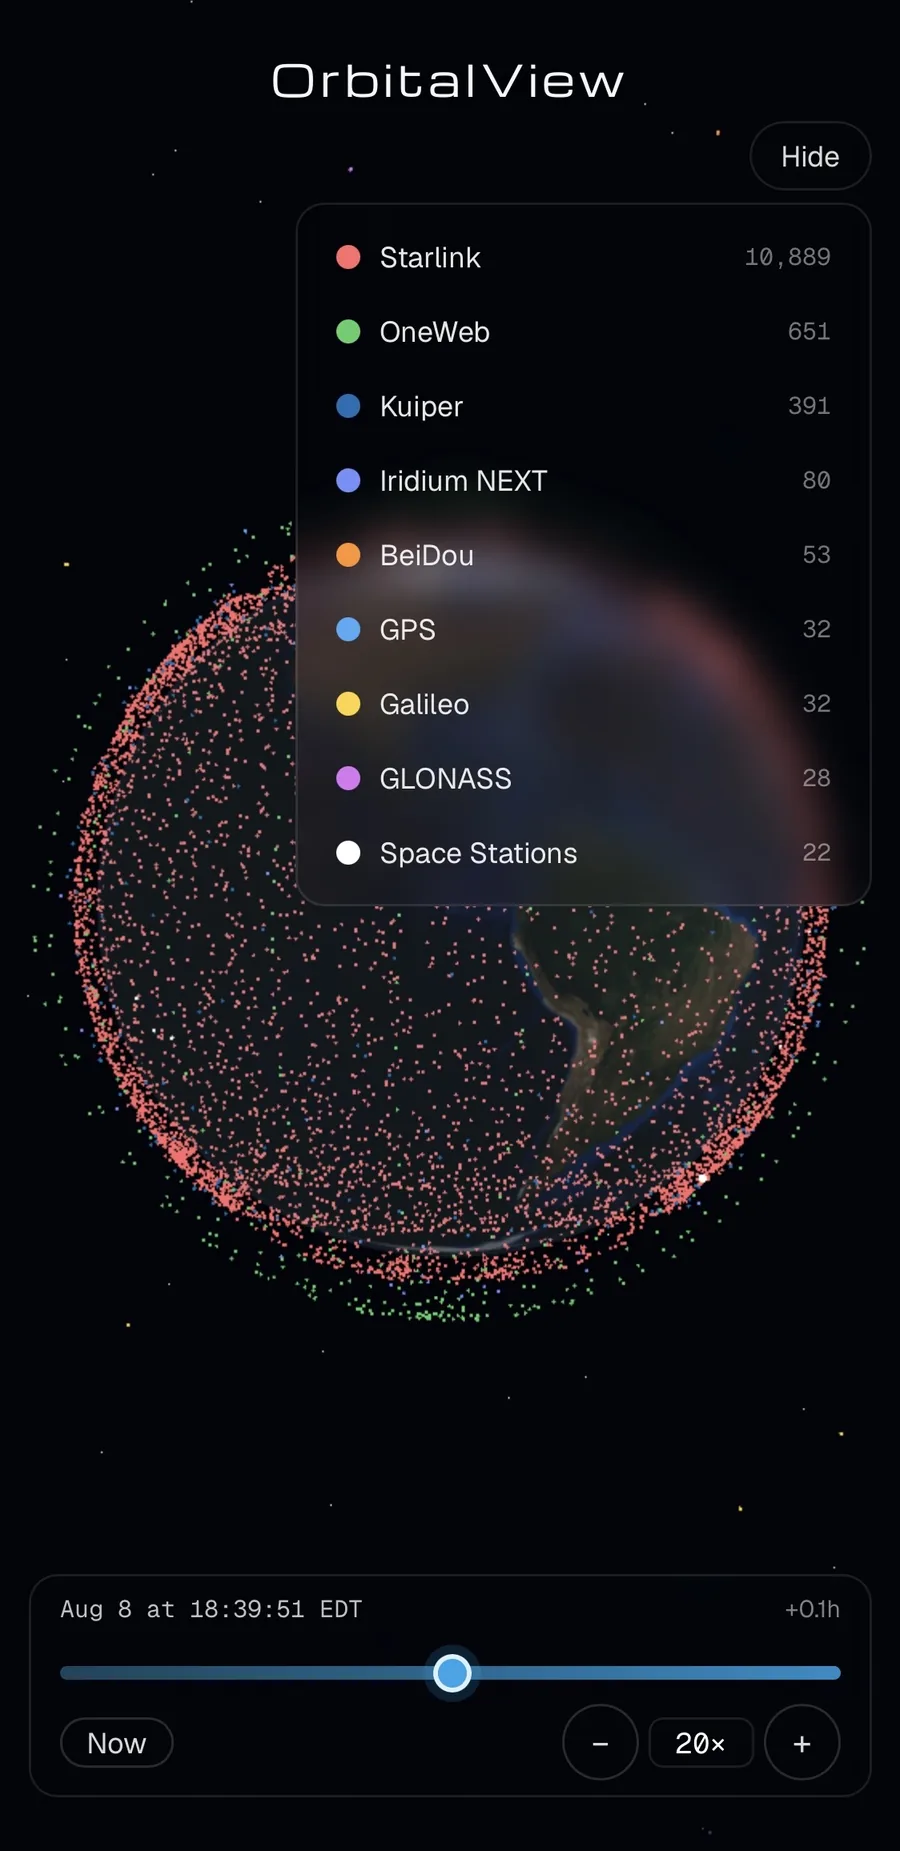
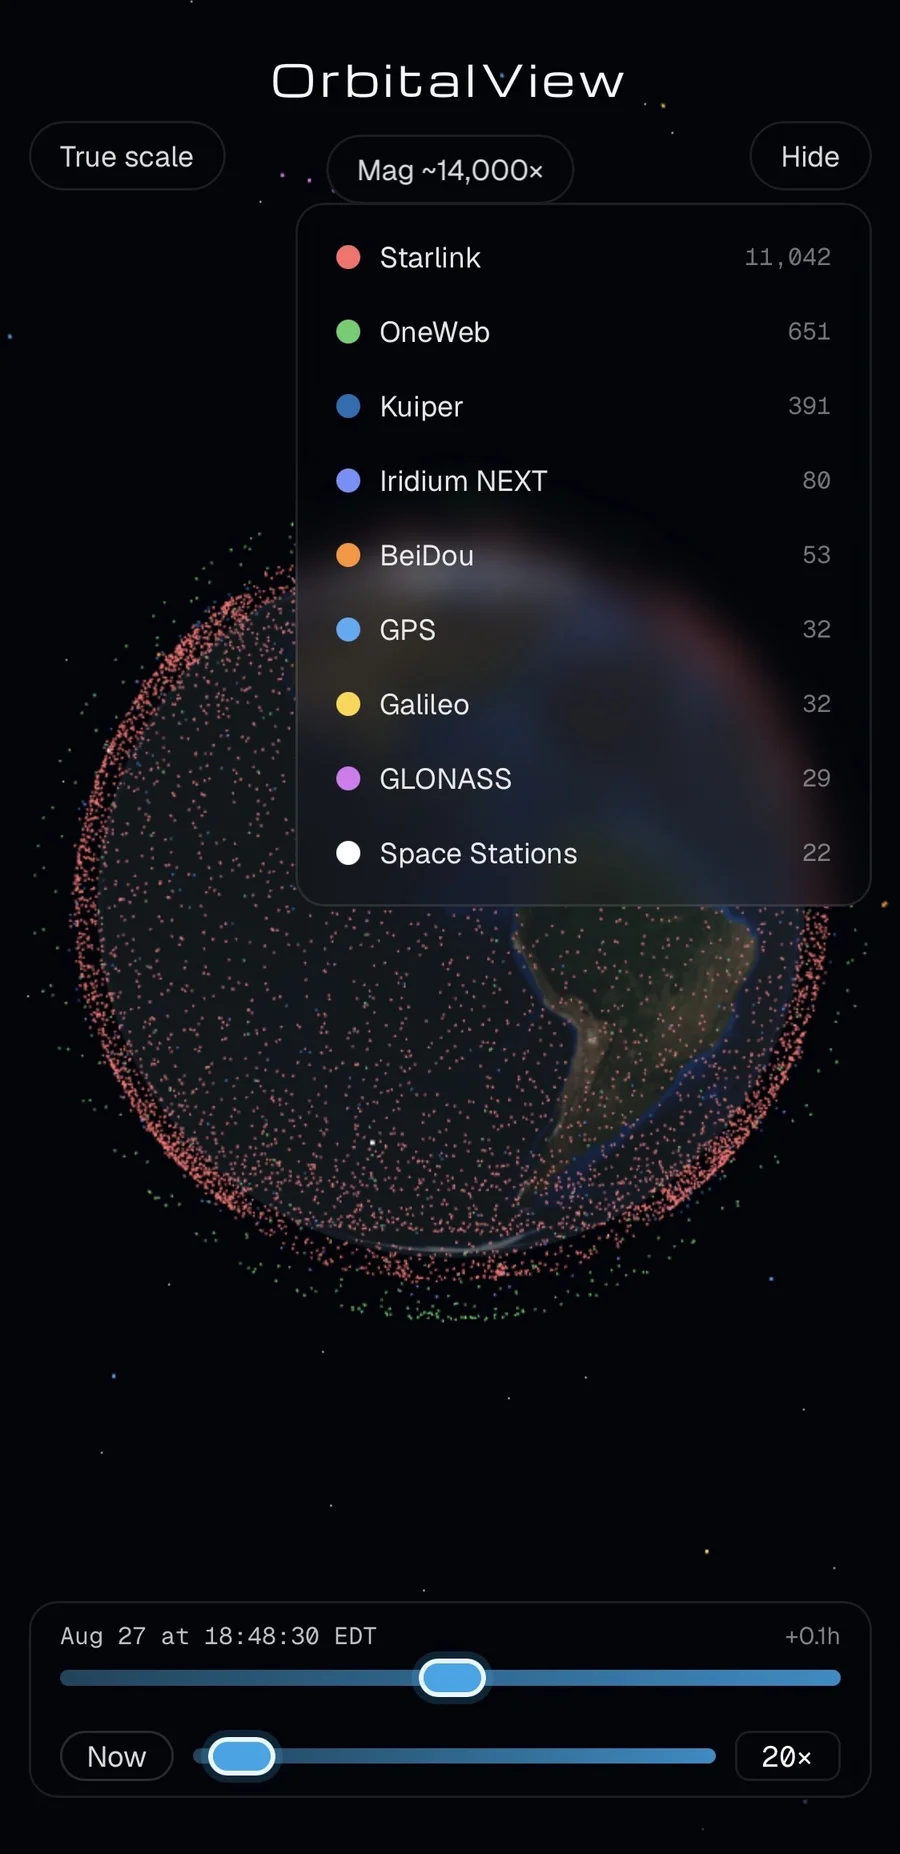
Refresh Orbital View hub card from the new phone screenshot.

diff --git a/apps.js b/apps.js
@@ -125,9 +125,9 @@ export const APPS = [
     id: "satellite-app",
     name: "Orbital View",
     href: "https://orbital.markmaga.com",
-    img: "images/ss-orbitalview.webp",
+    img: "images/ss-orbitalview.webp?v=2",
     imgW: 900,
-    imgH: 1851,
+    imgH: 1854,
     hint: "3D Earth and live satellites · slide time · tap Constellations",
   },
   {

diff --git a/sphere.js b/sphere.js
@@ -3,7 +3,7 @@
  * 16 live equator cards; extras sit on the inner ring. Ghost latitude bands.
  */
 import * as THREE from "./vendor/three.module.min.js";
-import { APPS } from "./apps.js?v=9";
+import { APPS } from "./apps.js?v=10";
 
 const REAL = 16;
 const EQUATOR_SLOT_DEG = 360 / REAL;

diff --git a/index.html b/index.html
@@ -279,7 +279,7 @@
       });
     })();
   </script>
-  <script type="module" src="hub.js?v=12"></script>
+  <script type="module" src="hub.js?v=13"></script>
   <script>
     window.va = window.va || function () { (window.vaq = window.vaq || []).push(arguments); };
   </script>

diff --git a/hub.js b/hub.js
@@ -1,4 +1,4 @@
-import { APPS } from "./apps.js?v=9";
+import { APPS } from "./apps.js?v=10";
 
 const MODE_KEY = "markmaga-hub-mode";
 
